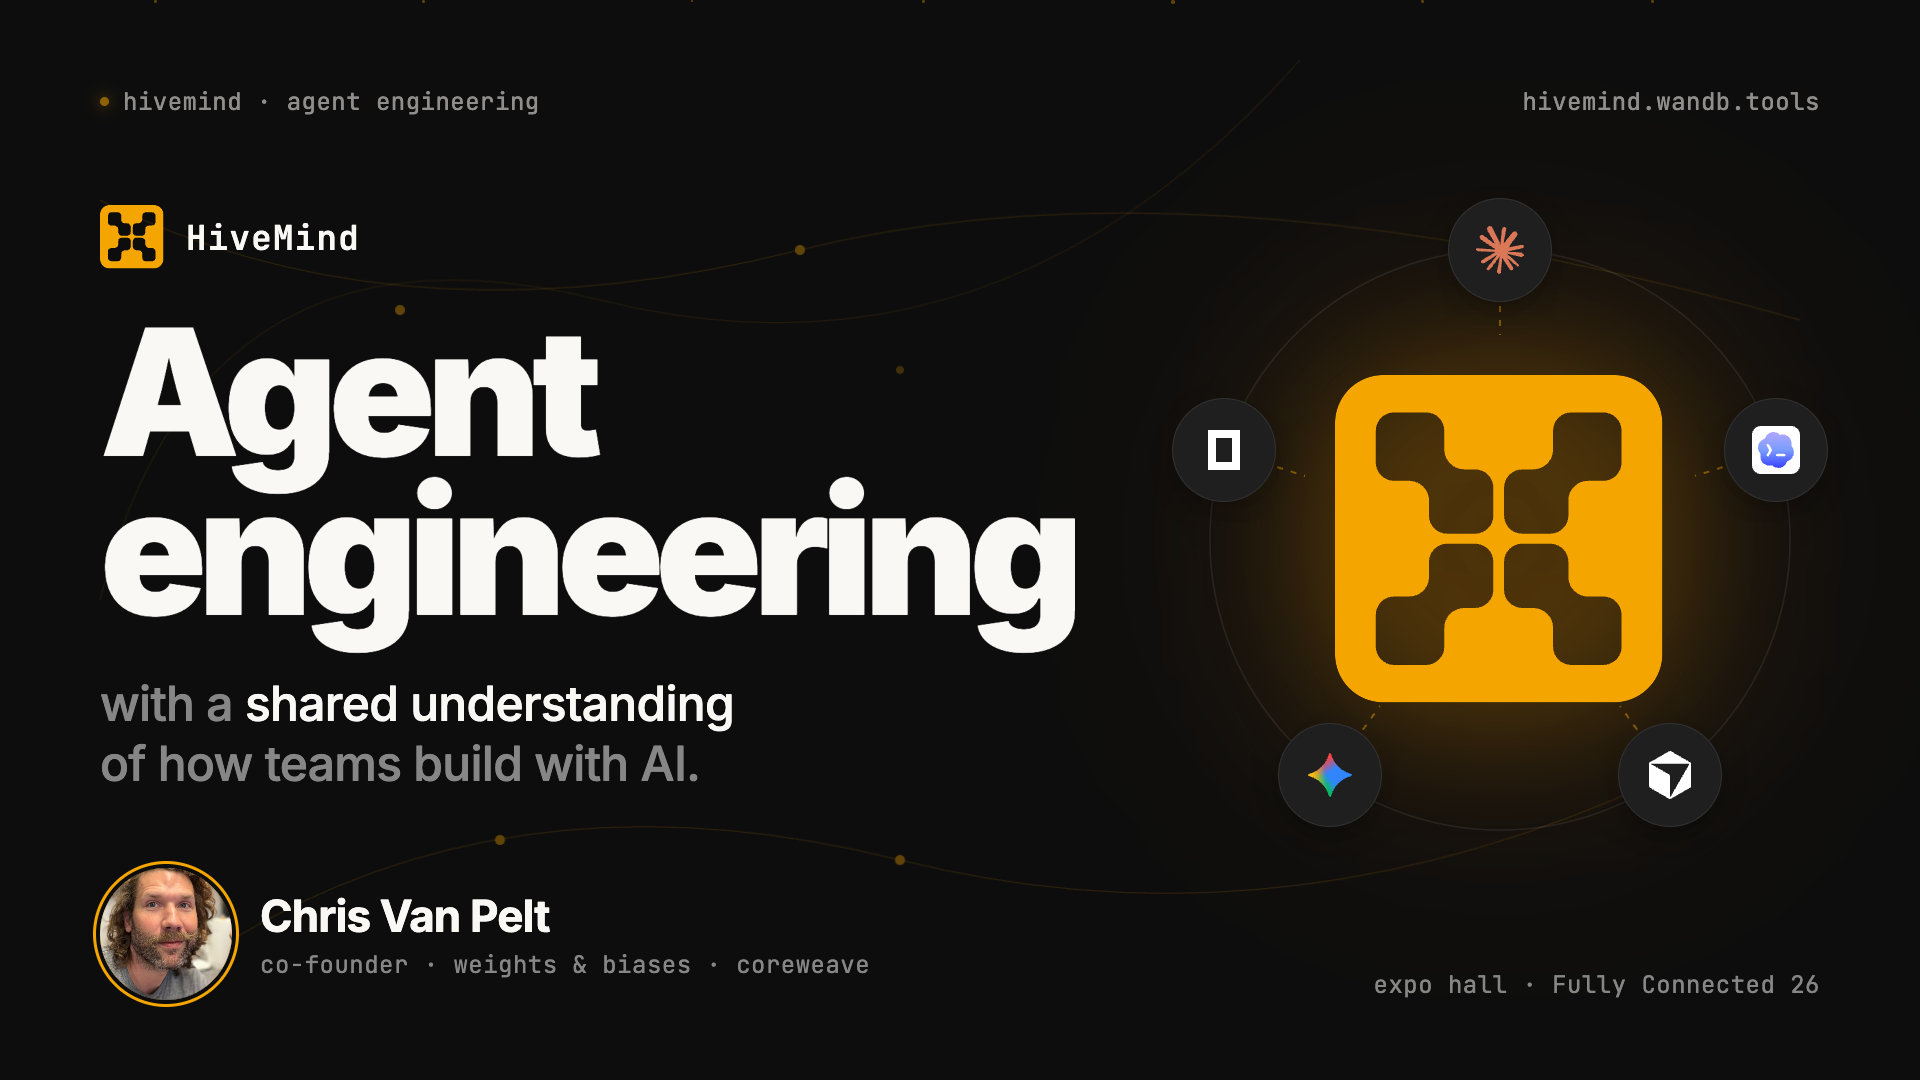
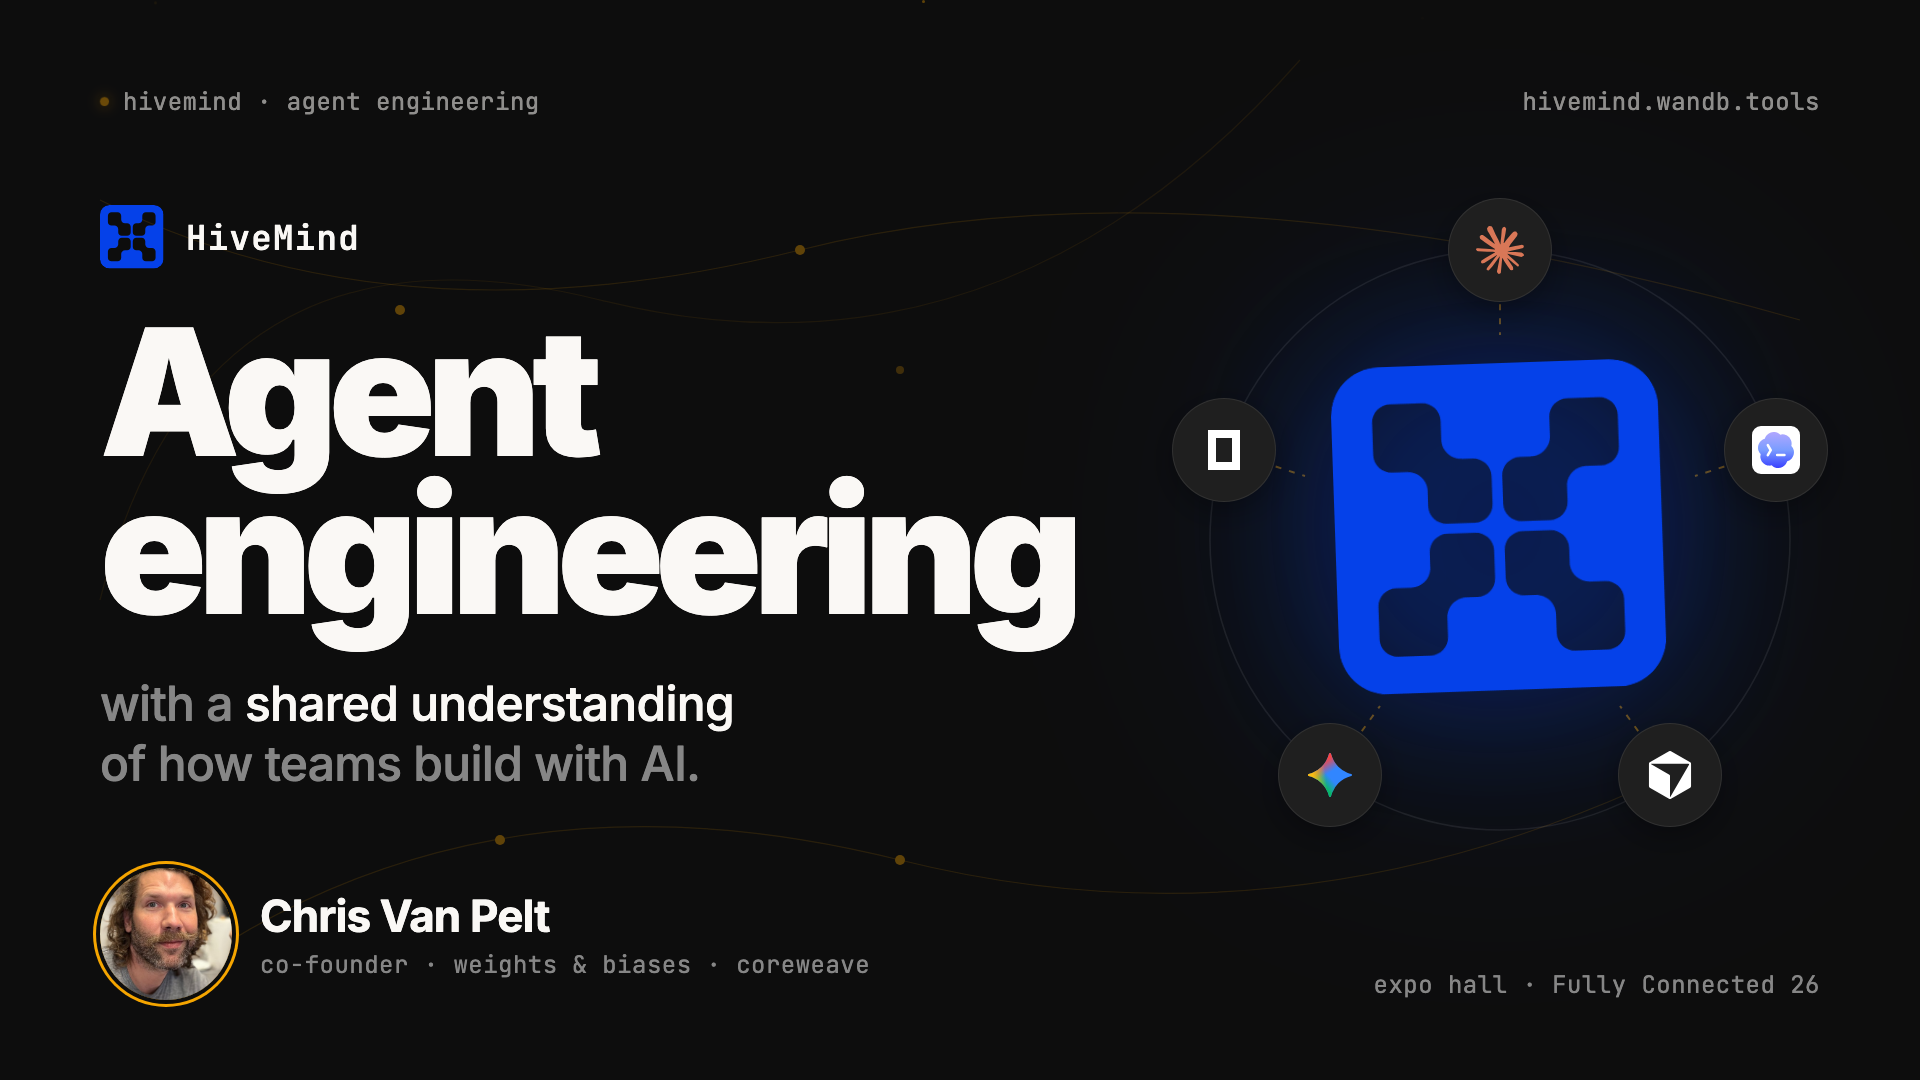
feat(prezos): HiveMind mark in CoreWeave blue; find us in #gpus

Changed region(s): [[0.6562, 0.275, 0.9062, 0.7333], [0.0312, 0.1833, 0.0938, 0.2444], [0.3125, 0.5194, 0.3438, 0.55]]

diff --git a/prezos/hivemind-agent-engineering/index.html b/prezos/hivemind-agent-engineering/index.html
@@ -44,7 +44,7 @@
   "This is the one I want you to remember. For the last few months HiveMind has occasionally asked our engineers one question about a task that just merged: how long would this have taken you without AI? 198 answers from 49 engineers. The typical answer: two hours. The agent actually worked on it for 29 minutes. Five times faster on the typical task, and the agent beat the estimate 95% of the time. It holds as tasks get bigger: work people called one to three days took the agent about 80 minutes. Honest caveats: it's self-reported, the popup shows the session's duration, and this is the agent's working time, not how long the session sat open. People still review, test and think. But it's working, and it's working well.",
   "So do the math. The agent is about five times faster on a task. I run about 1.7 agents at once. Multiply and on paper that's eight or nine times the output. Round it to 10 if you're feeling generous. But here's the catch, and it's in the same survey data: measured end to end, from when the session opens to when it wraps up, tasks only close about 1.4 times faster than people's estimates. The difference is us. Reviewing, testing, validating, approving. In my own sessions the agent works 15 minutes out of every 69 the session is open; the rest it's waiting on me. The agents stopped being the bottleneck. We are. That's the problem we're working on next in HiveMind: review that keeps up with your agents.",
   "If you want to see this for your own team: sign up at hivemind.wandb.tools, or if your transcripts can't leave your network, self-host it. One install command and 'hivemind serve up' brings up the whole stack. The docs are at hivemind.wandb.tools/docs/self-hosting.",
-  "Thanks. Come find us at the booth, try it, and tell me what you'd measure."
+  "Thanks. Come find us in #gpus, try it, and tell me what you'd measure."
 ]
 </script>
 <link rel="stylesheet" href="styles.css">
@@ -761,7 +761,7 @@ hivemind serve up</pre>
         <div class="mono" style="font-size: 24px; letter-spacing: 0.1em;">TRY IT</div>
         <div class="mono" style="color: var(--amber);">hivemind.wandb.tools</div>
         <div class="mono" style="font-size: 24px; letter-spacing: 0.1em;">FIND US</div>
-        <div class="mono" style="color: var(--amber);"><span class="tk">booth #</span></div>
+        <div class="mono" style="color: var(--amber);">#gpus</div>
       </div>
     </div>
     <div class="header-bar" style="margin-top: auto;">

diff --git a/prezos/hivemind-agent-engineering/styles.css b/prezos/hivemind-agent-engineering/styles.css
@@ -5,6 +5,7 @@
   --paper-2: oklch(0.94 0.008 80);
   --amber: oklch(0.78 0.17 75);
   --amber-deep: oklch(0.68 0.19 55);
+  --hm-blue: #0541e9; /* HiveMind mark */
   --violet: oklch(0.72 0.17 295);
   --mute-dark: oklch(0.62 0 0);
   --mute-light: oklch(0.45 0 0);
@@ -1852,7 +1853,7 @@ deck-stage section[data-deck-active] .eyebrow {
 }
 
 /* HiveMind mark — color comes from currentColor */
-.hm-logo { display: block; color: var(--amber); }
+.hm-logo { display: block; color: var(--hm-blue); }
 
 /* Title slide */
 .t-main {
@@ -1899,8 +1900,8 @@ deck-stage section[data-deck-active] .eyebrow {
   position: absolute; left: 50%; top: 50%;
   width: 330px; height: 330px;
   transform: translate(-50%, -50%);
-  filter: drop-shadow(0 0 70px oklch(0.78 0.17 75 / 0.4))
-          drop-shadow(0 0 150px oklch(0.68 0.19 55 / 0.25));
+  filter: drop-shadow(0 0 70px color-mix(in srgb, var(--hm-blue) 45%, transparent))
+          drop-shadow(0 0 150px color-mix(in srgb, var(--hm-blue) 25%, transparent));
 }
 .t-orbit-logo .hm-logo { width: 100%; height: 100%; animation: brainFloat 9s ease-in-out infinite; }
 .t-chip {
@@ -2063,6 +2064,6 @@ deck-stage section[data-deck-active] .eyebrow {
 
 /* What we built: HiveMind lockup */
 .built-brand { display: flex; align-items: center; gap: 24px; }
-.built-brand .hm-logo { width: 84px; height: 84px; filter: drop-shadow(0 0 30px oklch(0.78 0.17 75 / 0.35)); }
+.built-brand .hm-logo { width: 84px; height: 84px; filter: drop-shadow(0 0 30px color-mix(in srgb, var(--hm-blue) 40%, transparent)); }
 .built-name { font-size: 56px; font-weight: 800; letter-spacing: -0.03em; }
 .built-sub { font-size: 24px; color: var(--mute-dark); letter-spacing: 0.04em; margin-left: 12px; padding-left: 28px; border-left: 1.5px solid var(--line-dark); }
